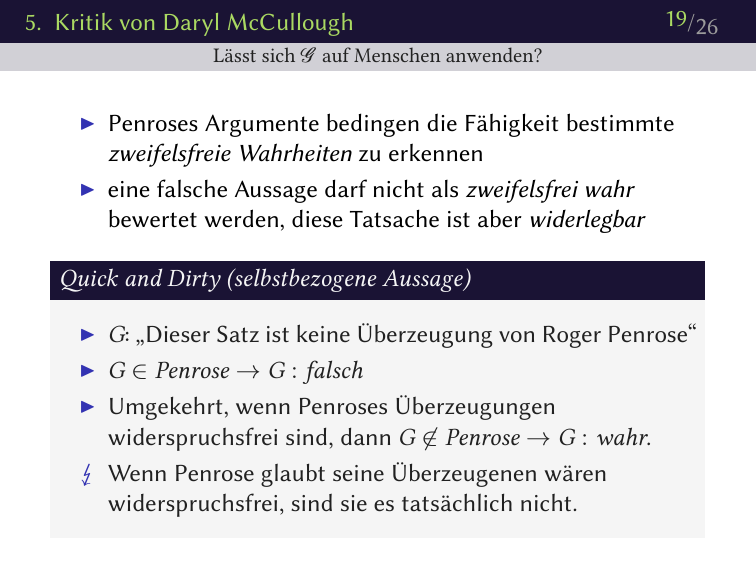
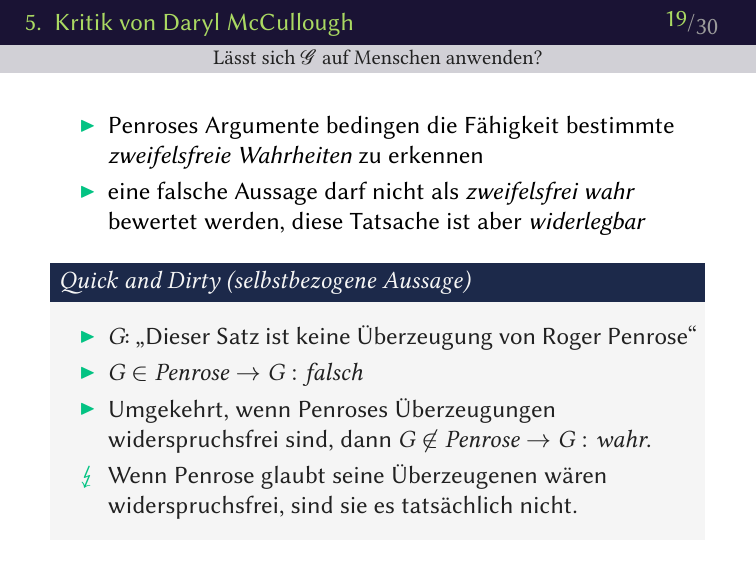
generated more previews

diff --git a/README.md b/README.md
@@ -37,3 +37,7 @@ Currently im writing a completly new template, so the readme will be updated soo
 ![](page-24.png)
 ![](page-25.png)
 ![](page-26.png)
+![](page-27.png)
+![](page-28.png)
+![](page-29.png)
+![](page-30.png)
